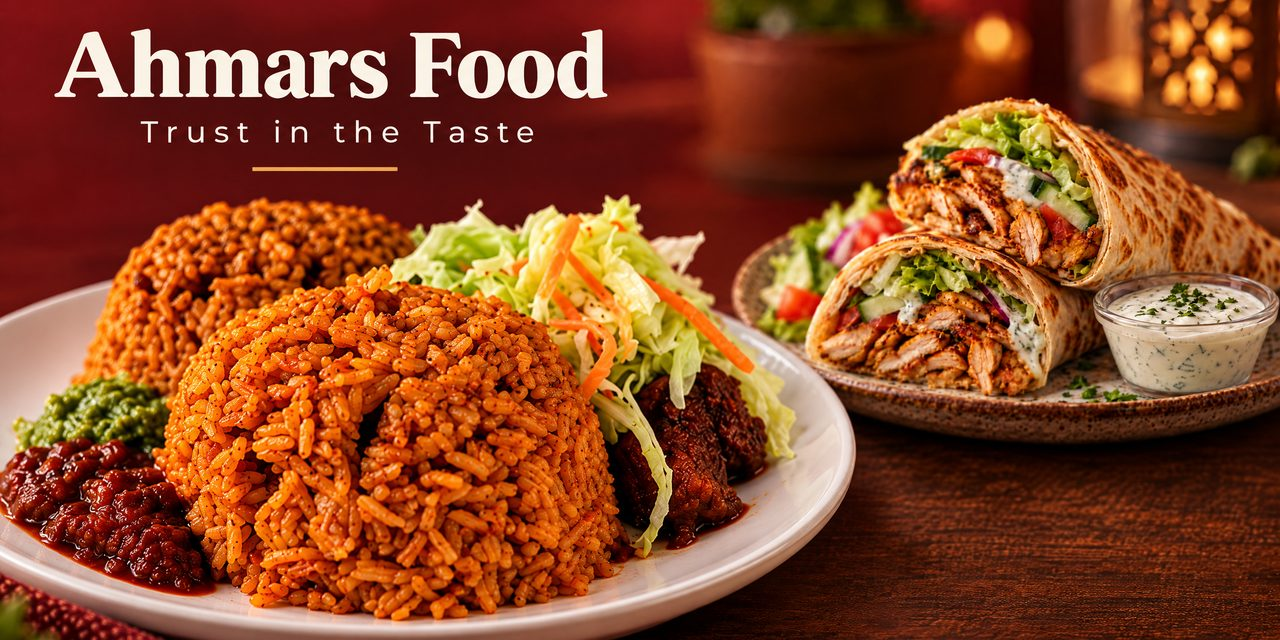
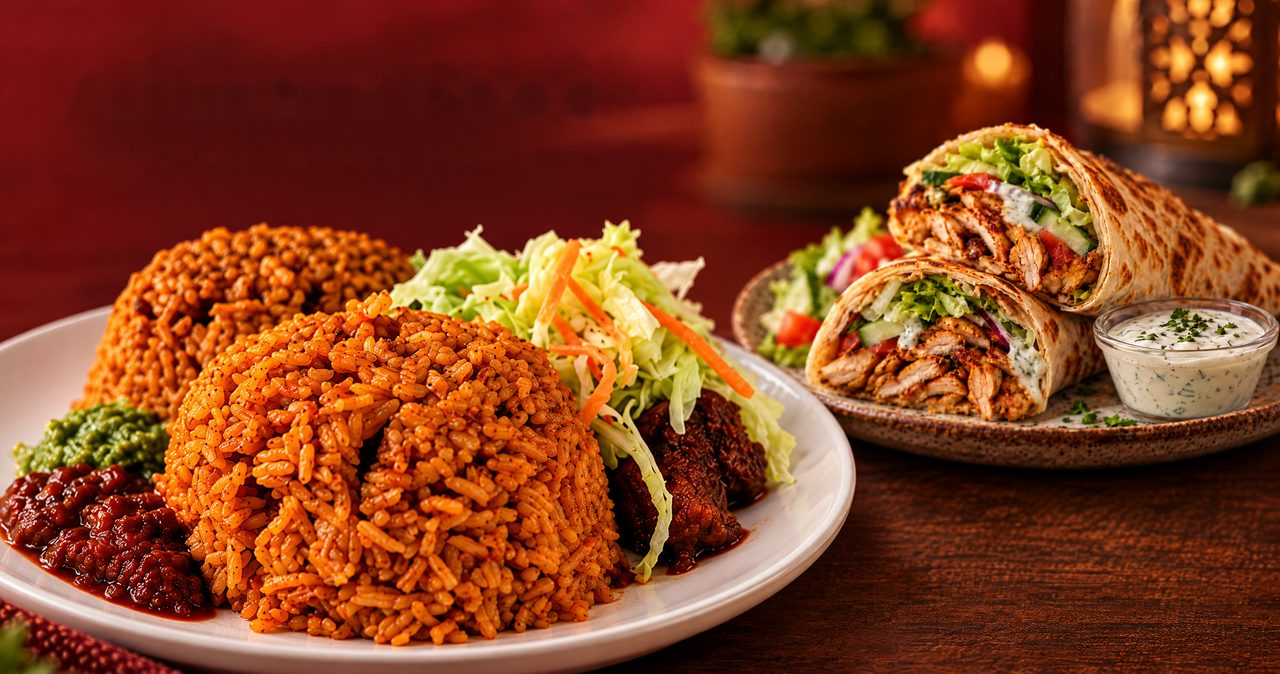
feat: hero text overlaid on picture for desktop

diff --git a/frontend/src/pages/Menu.jsx b/frontend/src/pages/Menu.jsx
@@ -19,8 +19,8 @@ export default function Menu() {
 
   return (
     <div>
-      <section className="mb-8 overflow-hidden rounded-3xl bg-forest text-white">
-        <div className="aspect-[3/2] w-full md:aspect-[2/1]">
+      <section className="relative mb-8 overflow-hidden rounded-3xl bg-forest text-white [container-type:inline-size]">
+        <div className="aspect-[3/2] w-full md:aspect-[1.9/1]">
           <picture>
             <source media="(min-width: 768px)" type="image/webp" srcSet={HERO.desktop.webp} sizes="(min-width: 1152px) 1152px, 100vw" />
             <source media="(min-width: 768px)" type="image/jpeg" srcSet={HERO.desktop.jpg} sizes="(min-width: 1152px) 1152px, 100vw" />
@@ -29,11 +29,11 @@ export default function Menu() {
             <img src={HERO.mobile.fallback} alt={HERO.alt} className="h-full w-full object-cover" fetchPriority="high" decoding="async" />
           </picture>
         </div>
-        {/* Mobile: visible headline under the picture. Desktop: the wordmark is in the picture, so this stays for screen readers and search only. */}
-        <div className="px-6 py-8 md:sr-only">
-          <span className="inline-block -rotate-2 rounded-full bg-gold px-3 py-1 font-mono text-xs font-bold text-ink">MARABA AKUNZA · FEDERAL UNIVERSITY LAFIA</span>
-          <h1 className="mt-4 text-4xl font-extrabold leading-tight">Home cooking,<br /><span className="text-gold">...trust in the taste.</span></h1>
-          <p className="mt-3 max-w-md text-white/90">Order amala, jollof, shawarma and more in Lafia. Pay online or on delivery, then follow your rider to your door.</p>
+        {/* Phones: text sits under the picture. md and up: the same text is laid over the dark-red area of the picture (sizes scale with the hero width). */}
+        <div className="px-6 py-8 md:absolute md:left-[4%] md:top-[4%] md:w-[54%] md:p-0 md:[text-shadow:0_1px_10px_rgba(0,0,0,.45)]">
+          <span className="inline-block -rotate-2 rounded-full bg-gold px-3 py-1 font-mono text-xs font-bold text-ink md:px-[1.1cqw] md:py-[0.35cqw] md:text-[1cqw]">LAFIA · GANDU · AKUNZA · FULAFIA</span>
+          <h1 className="mt-4 text-4xl font-extrabold leading-tight md:mt-[1.1cqw] md:text-[4cqw] md:leading-[1.05]">Cooked with Love,<br /><span className="text-gold md:text-[2.7cqw]">...trust in the taste, Ci-Kalashe.</span></h1>
+          <p className="mt-3 max-w-md text-white/90 md:sr-only lg:not-sr-only lg:mt-[1cqw] md:max-w-[44cqw] md:text-[1.3cqw] md:leading-snug">Order pounded yam, fried/jollof rice, shawarma and more in Lafia. Pay online or on delivery, then follow your rider to your door.</p>
         </div>
       </section>
 

diff --git a/frontend/src/heroConfig.js b/frontend/src/heroConfig.js
@@ -1,6 +1,6 @@
 // Home page hero. Files live in frontend/public and were carved from ahmars-food-hero-updated.png:
-//  - desktop (md and up): wide 2.4:1 band, wordmark and tagline are part of the picture
-//  - mobile: food-only 1345:1200 crop; the headline is real text under the picture
+//  - desktop (md and up): wide 1.9:1 band, no baked-in text, headline is real text laid over the picture
+//  - mobile: food-only 3:2 rice-focused crop; the headline is real text under the picture
 export const HERO = {
   alt: 'Ahmars Food: jollof rice with coleslaw, and grilled chicken shawarma with garlic sauce',
   desktop: { webp: '/hero-desktop-1280.webp 1280w, /hero-desktop.webp 1920w', jpg: '/hero-desktop-1280.jpg 1280w, /hero-desktop.jpg 1920w' },
